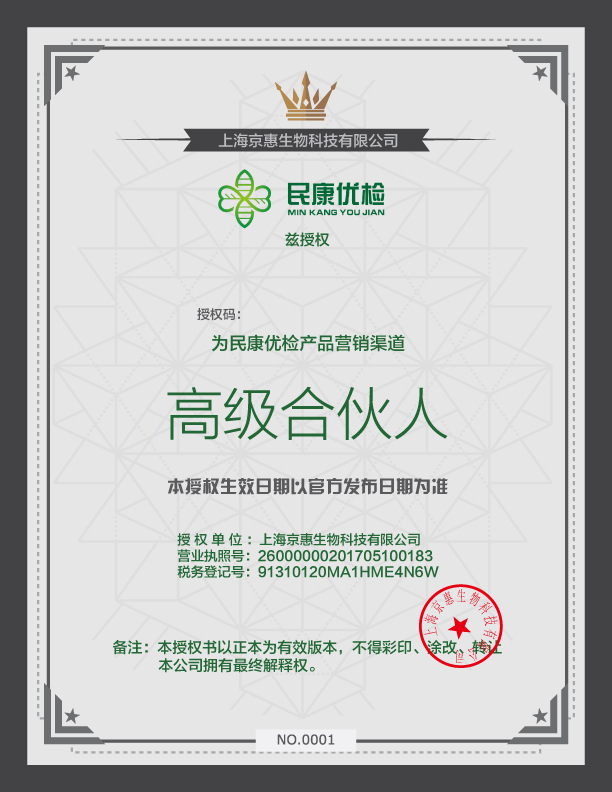
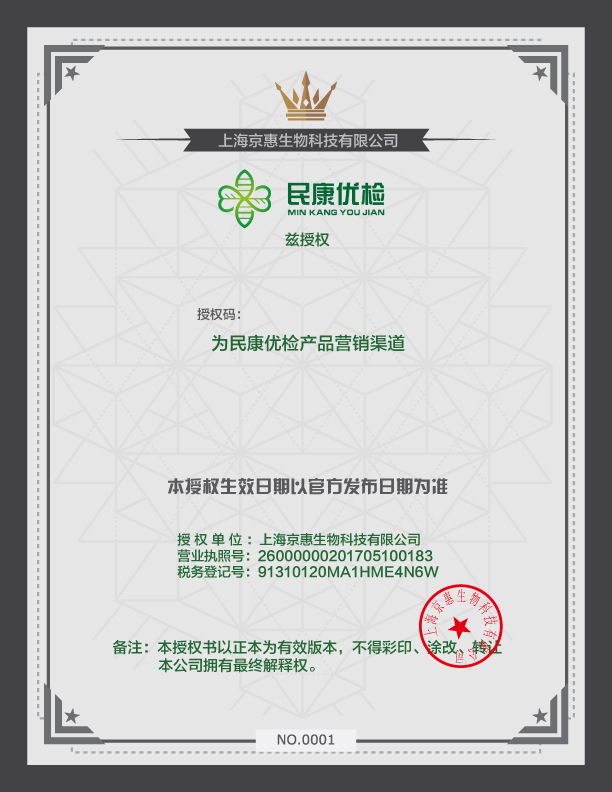
change

Changed region(s): [[0.2794, 0.4848, 0.6209, 0.5758], [0.652, 0.4848, 0.7141, 0.5455], [0.6209, 0.5455, 0.652, 0.5758]]

diff --git a/htdocs/u---order---in.html b/htdocs/u---order---in.html
@@ -30,15 +30,7 @@
     stccdn : 'http://state.zhi-you.net'
   }
 </script>
-
-
-
 <link rel="stylesheet" href="css/ucenter/order.css">
-<script>
-  $(function() {
-    $('.miui-scroll-nav').scrollableNav();
-  });
-</script>
 </head>
 <body class="header-fixed footer-fixed">
 
@@ -48,7 +40,7 @@
     
   </header>
   
-  <nav class="miui-scroll-nav">
+  <nav class="miui-scroll-nav groupByOrderTypeAndOrderStatusAndUser">
     <ul style="left: 0px;">
       <li class="current"><a >全部订单 (0)</a></li>
       <li><a>待支付 (0)</a></li>
@@ -57,7 +49,8 @@
       <li><a>已发货 (0)</a></li>
       <li><a>已完成 (0)</a></li>
       <li><a>已取消 (0)</a></li>
-    <li class="cur-line" style="left: 0px; width: 104px;"></li></ul>
+      <li class="cur-line" style="left: 0px; width: 104px;"></li>
+    </ul>
   </nav>
   
   <article class="order-list">
@@ -95,43 +88,92 @@
   <a href="javascript:;" class="go-top" style="display: none;"><i class="fa fa-angle-up"></i></a>
 </aside>
 
+<script id="groupByOrderTypeAndOrderStatusAndUserTpl" type="text/html">
+  <ul style="left: 0px;">
+    <li statusName='全部订单' class="current"><a >全部订单 ({{d['全部订单']}})</a></li>
+    <li statusName='待支付'><a>待支付 ({{d['待支付']}})</a></li>
+    <!-- <li><a>待确认 ({{d['待确认']}})</a></li> -->
+    <li statusName='已支付'><a>已支付 ({{d['已支付']}})</a></li>
+    <li statusName='已发货'><a>已发货 ({{d['已发货']}})</a></li>
+    <li statusName='已完成'><a>已完成 ({{d['已完成']}})</a></li>
+    <li statusName='已取消'><a>已取消 ({{d['已取消']}})</a></li>
+  </ul>
+</script>
+<script src="plugin/laytpl-1.1/laytpl.js"></script>
 <script type="text/javascript">
   
+    // $.ajax({
+    //   url: serviceUrl+'/api/order/countByOrderTypeAndUser',
+    //   type: 'POST',
+    //   xhrFields: {
+    //     withCredentials:true
+    //   },
+    // })
+    // .done(function(data) {
+    // })
+    // .fail(function(data) {
+    //   console.log("error");
+    // })
+
+    loadList('全部订单');
+    function loadList(status){
+      $.ajax({
+        url: serviceUrl+'/api/order/findByOrderTypeAndOrderStatusAndUser',
+        type: 'POST',
+        xhrFields: {
+          withCredentials:true
+        },
+        data:{orderType:'进货订单',orderStatus:status},
+      })
+      .done(function(data) {
+        var orderListHtml='';
+        for(var o in data){
+          orderListHtml+='<a class="order bd-t bd-b" href="u---order---37986.html?id='+data[o].id+'">\
+                            <div class="order-sn pl-15 pr-15 font-777 fs-12">订单编号：'+data[o].orderCode+'</div>\
+                            <label class="order-status label yellow">'+data[o].orderStatus+'</label>\
+                            <div class="product-info pl-15 pr-15">\
+                              <div class="product relative clearfix mt-5">\
+                                <img class="product-image abs-lt" alt="" src="images/wx_20170726174201.jpg">\
+                                <div class="product-title">'+data[o].productName+'</div>\
+                                <div class="product-price abs-rt text-right">\
+                                  <div class="lh-24 fs-12">¥ '+data[o].productPrice+'</div>\
+                                  <div class="lh-24 fs-12 font-gray">x'+data[o].productNum+'</div>\
+                                </div>\
+                              </div>\
+                            </div>\
+                            <div class="order-info pl-15 pr-15 mt-5 bdd-t">\
+                              <div class="flex lh-30">\
+                                <div class="flex-1 font-999 fs-12"><span>下单时间：'+moment(data[o].orderTime).format('M月D日 HH:mm')+'</span></div>\
+                                <div class="flex-1 font-777 text-right">总金额：\
+                                  <span class="fs-14 font-orange bold">¥ '+data[o].productCost+'</span>\
+                                </div>\
+                              </div>\
+                            </div>\
+                          </a>';
+        }
+        $('.order-list').html(orderListHtml);
+      })
+      .fail(function(data) {
+        console.log("error");
+      })
+    }
+    
+
     $.ajax({
-      url: serviceUrl+'/api/order/findByOrderTypeAndOrderStatusAndUser',
+      url: serviceUrl+'/api/order/groupByOrderTypeAndOrderStatusAndUser',
       type: 'POST',
       xhrFields: {
         withCredentials:true
       },
-      data:{orderType:'服务订单',orderStatus:'待确认'},
+      data:{orderType:'进货订单'},
     })
     .done(function(data) {
-      var orderListHtml='';
-      for(var o in data){
-        orderListHtml+='<a class="order bd-t bd-b" href="u---order---37986.html?id='+data[o].id+'">\
-                          <div class="order-sn pl-15 pr-15 font-777 fs-12">订单编号：'+data[o].orderCode+'</div>\
-                          <label class="order-status label yellow">'+data[o].orderStatus+'</label>\
-                          <div class="product-info pl-15 pr-15">\
-                            <div class="product relative clearfix mt-5">\
-                              <img class="product-image abs-lt" alt="" src="images/wx_20170726174201.jpg">\
-                              <div class="product-title">'+data[o].productName+'</div>\
-                              <div class="product-price abs-rt text-right">\
-                                <div class="lh-24 fs-12">¥ '+data[o].productPrice+'</div>\
-                                <div class="lh-24 fs-12 font-gray">x'+data[o].productNum+'</div>\
-                              </div>\
-                            </div>\
-                          </div>\
-                          <div class="order-info pl-15 pr-15 mt-5 bdd-t">\
-                            <div class="flex lh-30">\
-                              <div class="flex-1 font-999 fs-12"><span>下单时间：'+moment(data[o].orderTime).format('M月D日 HH:mm')+'</span></div>\
-                              <div class="flex-1 font-777 text-right">总金额：\
-                                <span class="fs-14 font-orange bold">¥ '+data[o].productCost+'</span>\
-                              </div>\
-                            </div>\
-                          </div>\
-                        </a>';
-      }
-      $('.order-list').html(orderListHtml);
+      $('.groupByOrderTypeAndOrderStatusAndUser').html(laytpl($('#groupByOrderTypeAndOrderStatusAndUserTpl').html()).render(data));
+      $('.miui-scroll-nav').scrollableNav();
+      $('[statusName]').click(function(event) {
+        /* Act on the event */
+        loadList($(this).attr('statusName'))
+      });
     })
     .fail(function(data) {
       console.log("error");

diff --git a/htdocs/code---image.html b/htdocs/code---image.html
@@ -18,8 +18,10 @@
 <div class="nickname" style="position: absolute;z-index: 10;top: 204px;left: 185px;font-weight: bold;color: #7F7F81;font-size: 27px;">哈哈哈
 </div>
 
-<div class="authorizationCode" style="position: absolute;z-index: 10;top: 245px;left: 180px;font-weight: bold;color: #7F7F81;font-size: 12px;">FDSAFDS13213214324321
+<div class="authorizationCode" style="position: absolute;z-index: 10;top: 245px;left: 180px;font-weight: bold;color: #7F7F81;font-size: 12px;">WVFJCA4UDSUMITLPN
 </div>
+
+<div class="authorizationCode" style="position: absolute;z-index: 10;top: 303px;left: 102px;font-weight: bold;color: #206534;font-size: 50px;white-space: nowrap;">高级合伙人</div>
 
 <!-- <div style="position: absolute;z-index: 10;top: 39%;left: 49%;font-weight: bold;color: #7F7F81;font-size: 13px;">FDSAFDS13213214324321
 </div> -->
@@ -28,7 +30,23 @@
 <script src="js/common.js"></script>
 
 <script type="text/javascript">
-	$('.nickname').text(decodeURI(getQueryString('nickname')));
-	$('.authorizationCode').text(getQueryString('authorizationCode'));
+
+    $.ajax({
+      url: serviceUrl+'/api/order/countByOrderTypeAndUser',
+      type: 'POST',
+      xhrFields: {
+        withCredentials:true
+      },
+      data:{orderType:'进货订单'},
+    })
+    .done(function(data) {
+      $('.orderCount').text(data+'次');
+    })
+    .fail(function(data) {
+      console.log("error");
+    })
+
+	// $('.nickname').text(decodeURI(getQueryString('nickname')));
+	// $('.authorizationCode').text(getQueryString('authorizationCode'));
 </script>
 </body></html>

diff --git a/htdocs/u---order---create.html b/htdocs/u---order---create.html
@@ -55,8 +55,8 @@
         },
         type : 'POST',
         data : $('#orderForm').serializeArray(),
-        success : function(result) {
-          location.href='u---order---37986.html';
+        success : function(data) {
+          location.href='u---order---37986.html?id='+data.id;
           // var addressTpl = document.getElementById('addressListTpl').innerHTML;
           // laytpl(addressTpl).render(result.data, function(html) {
           //   $('article > .list-item').hide();

diff --git a/htdocs/u---address.html b/htdocs/u---address.html
@@ -37,7 +37,7 @@
 <body class="address-list">
   <header class="header">
     <h1>收货地址</h1>
-    <a href="#" onclick="history.go(-1);" class="button-left"><i class="fa fa-angle-left"></i></a>
+    <a href="#" onclick="location.href='u.html'" class="button-left"><i class="fa fa-angle-left"></i></a>
   </header>
   
   <article>

diff --git a/htdocs/u---order---create1.html b/htdocs/u---order---create1.html
@@ -95,7 +95,7 @@
           },
         })
         .done(function(data) {
-          location.href='u---order---37986.html'
+          location.href='u---order---37986.html?id='+data.id;
         })
         .fail(function(data) {
           console.log("error");

diff --git a/htdocs/u.html b/htdocs/u.html
@@ -283,7 +283,7 @@
       xhrFields: {
         withCredentials:true
       },
-      data:{orderType:'服务订单'},
+      data:{orderType:'进货订单'},
     })
     .done(function(data) {
       $('.orderCount').text(data+'次');

diff --git a/htdocs/product.html b/htdocs/product.html
@@ -72,7 +72,6 @@
 </aside>
 
 <script id="productListTpl" type="text/html">
-
 {{# for(var o in d){ }}
     <a href="./product---2.html?id={{d[o].id}}" class="product">
       <div class="image-box">
